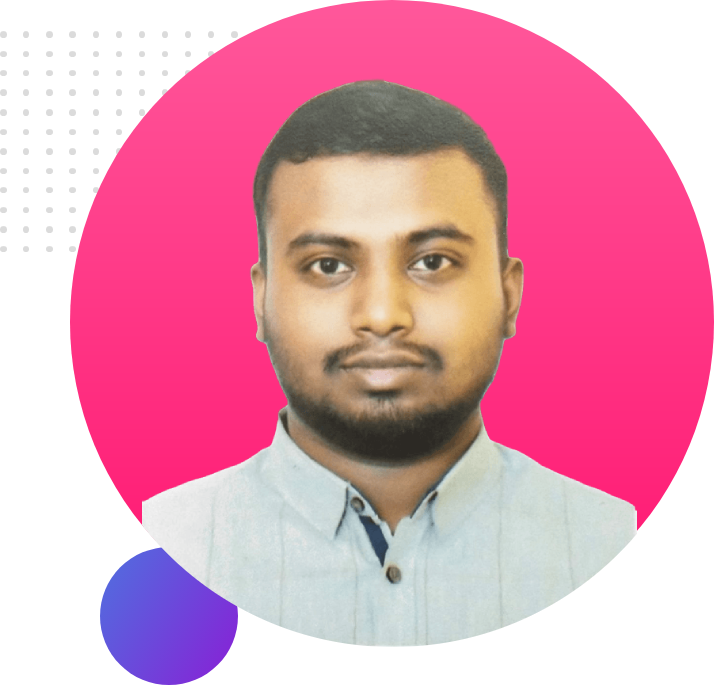
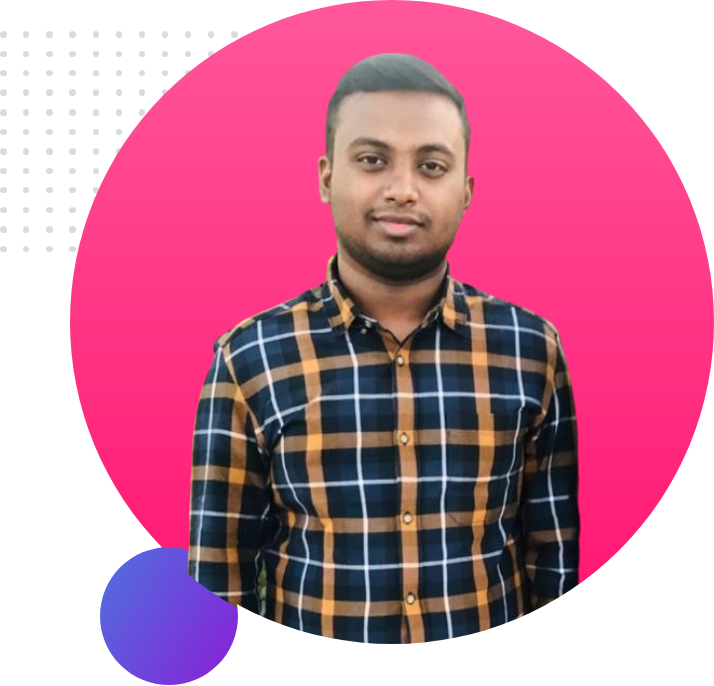
Bottom Container Added

diff --git a/index.html b/index.html
@@ -25,7 +25,19 @@
             ">HIRE ME</a>
         </div>
         <div class="half-width">
-            <img src="images/my-pic-with-bg1.png" alt="Pic Of Sayem">
+            <img src="images/my-pic-with-bg1.png" alt=" Pic Of Sayem 1">
+        </div>
+    </section>
+    <section class="bottom-container">
+        <div class="half-width">
+            <img src="images/my-pic-with-bg2.png" alt="Pic Of Sayem 2">
+        </div>
+        <div class="half-width">
+            <h1>Dream Big</h1>
+            <h3>Become A Web Developer</h3>
+            <p>I already learned basic HTML & CSS. I can build any simple website. I can even teach my sister & friends
+                how to make simple website. My goal is to build website & learn</p>
+            <a class="link-button" href="" target="_blank">DOWNLOAD RESUME</a>
         </div>
     </section>
 

diff --git a/style.css b/style.css
@@ -15,6 +15,7 @@ body {
 
 section {
     display: flex;
+    margin-bottom: 150px;
 }
 
 h1 {
@@ -37,5 +38,12 @@ h1 {
     padding: 10px 40px;
     border-radius: 5px;
     font-weight: 700;
+
+}
+
+.bottom-container {
+    background-image: url(images/dream-bg.png);
+    background-repeat: no-repeat;
+    background-position: right;
 
 }
